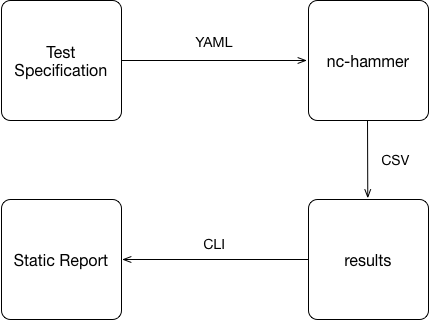
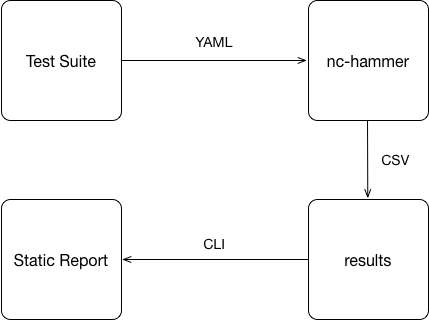
show solution with diagram

Changed region(s): [[0.0303, 0.125, 0.2727, 0.25]]

diff --git a/README.md b/README.md
@@ -6,7 +6,7 @@
 
 If you don't have a Go evnironment setup, you can __dowload a binary__ from the [releases](https://github.com/damianoneill/nc-hammer/releases) page, I suggest you place this somewhere in an existing bin path.
 
-The tool uses a yaml file to define the test setup.  A sample [Test Suite](./suite/testdata/testsuite.yml) is included in the repository.  It generates a results directory containing a copy of the testsuite and its output encoded in CSV format.  The tool can then generate reports against the contents in the results directory.
+The tool uses a YAML file to define the test suite.  A sample [Test Suite](./suite/testdata/testsuite.yml) is included in the repository.  Running a scenario generates a results directory containing a copy of the testsuite definition and its results encoded in CSV format.  The tool can then be used to generate reports against the contents within the results directory.
 
 ![alt text](img/arch.png)
 
